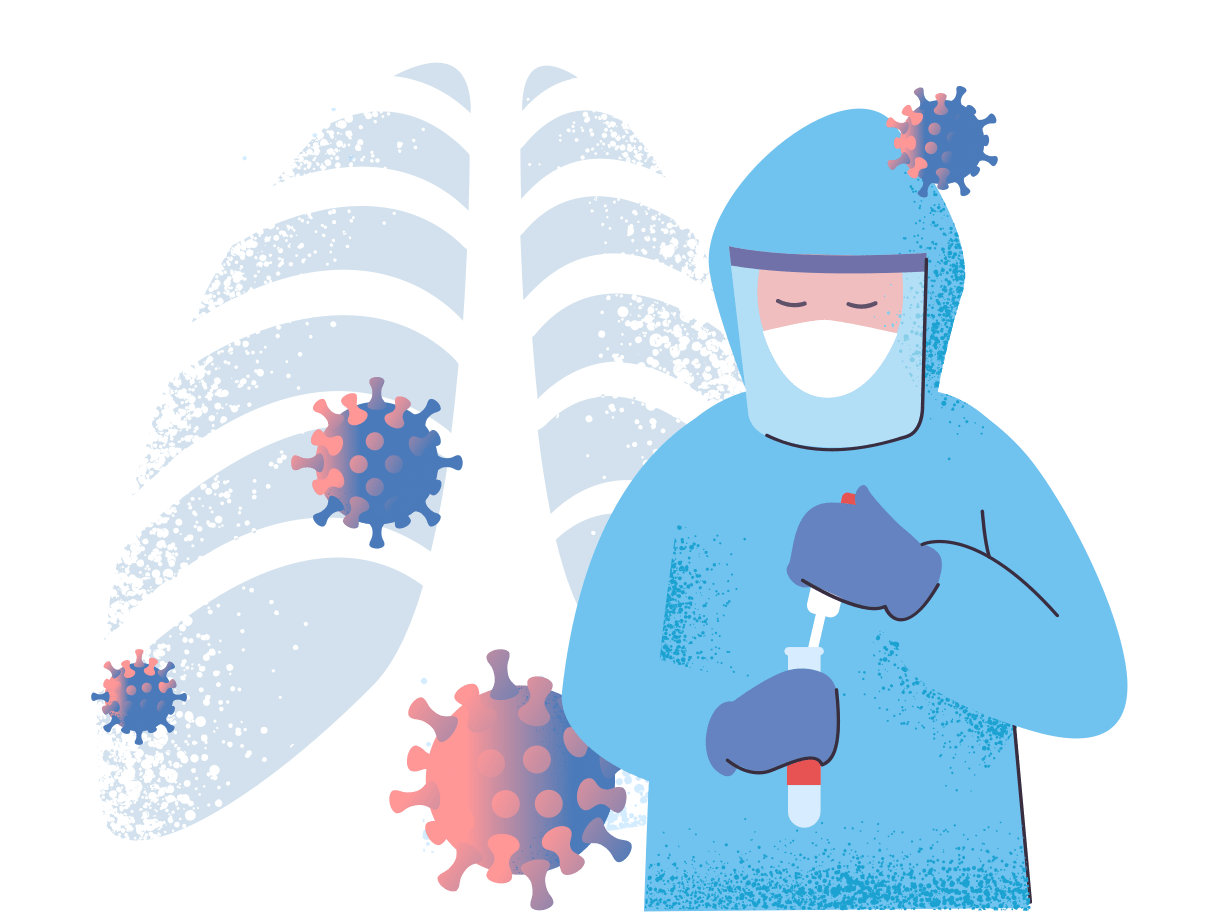
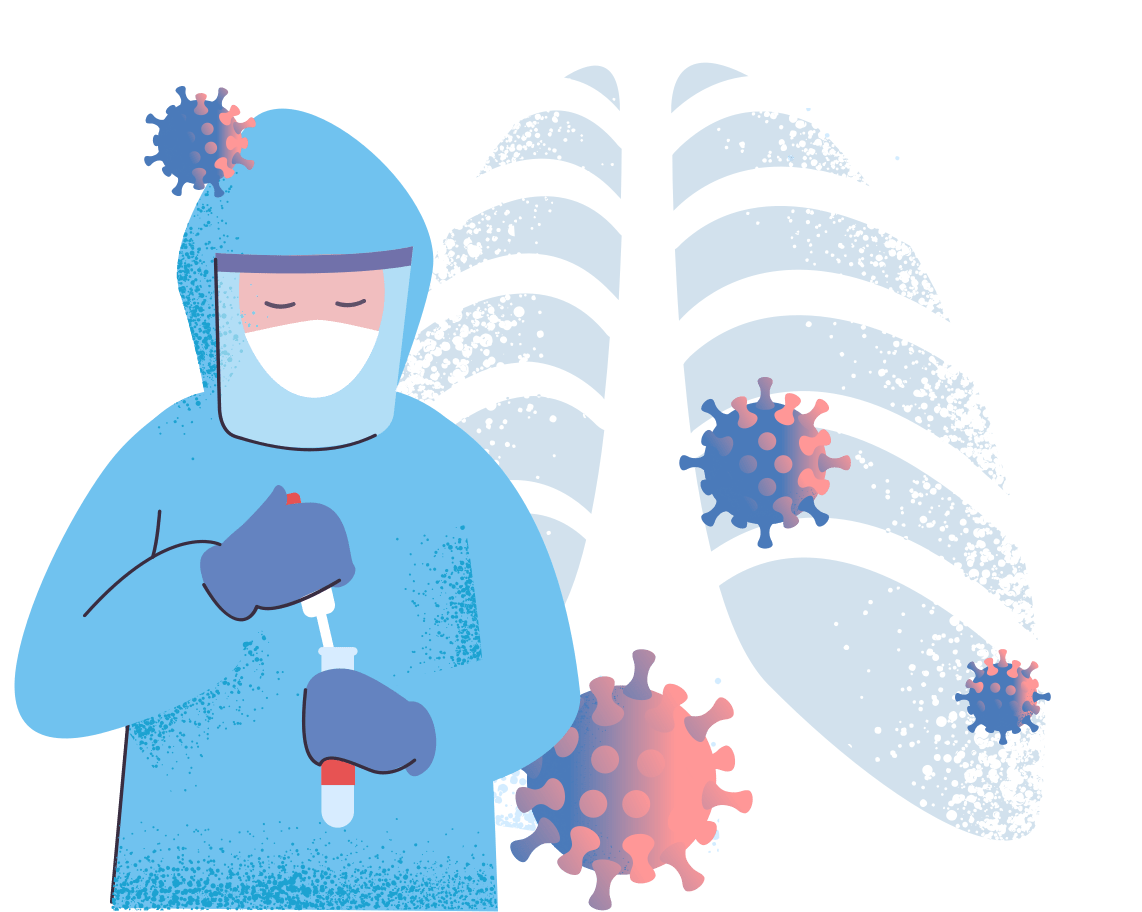
fifth push

diff --git a/lib/header.dart b/lib/header.dart
@@ -24,7 +24,7 @@ class _MyHeaderState extends State<MyHeader> {
     return ClipPath(
       clipper: MyClipper(),
       child: Container(
-        padding: EdgeInsets.only(left: 40, top: 50, right: 20),
+        padding: EdgeInsets.only(left: 10, top: 50, right: 20),
         height: 350,
         width: double.infinity,
         decoration: BoxDecoration(
@@ -37,27 +37,28 @@ class _MyHeaderState extends State<MyHeader> {
             ],
           ),
           image: DecorationImage(
-            alignment: Alignment.topCenter,
+            fit: BoxFit.contain,
+            alignment: Alignment.topLeft,
             image: AssetImage("assets/images/home.png"),
           ),
         ),
         child: Column(
           crossAxisAlignment: CrossAxisAlignment.end,
           children: <Widget>[
-            GestureDetector(
-              onTap: () {
-                Navigator.push(
-                  context,
-                  MaterialPageRoute(
-                    builder: (context) {
-                      return InfoScreen();
-                    },
-                  ),
-                );
-              },
-              child: SvgPicture.asset("assets/icons/menu.svg"),
-            ),
-            SizedBox(height: 20),
+//            GestureDetector(
+//              onTap: () {
+//                Navigator.push(
+//                  context,
+//                  MaterialPageRoute(
+//                    builder: (context) {
+//                      return InfoScreen();
+//                    },
+//                  ),
+//                );
+//              },
+//              child: SvgPicture.asset("assets/icons/menu.svg"),
+//            ),
+//            SizedBox(height: 20),
             Expanded(
               child: Stack(
                 children: <Widget>[
@@ -70,16 +71,16 @@ class _MyHeaderState extends State<MyHeader> {
 //                      alignment: Alignment.topCenter,
 //                    ),
 //                  ),
-//                  Positioned(
-//                    top: 100- widget.offset / 2,
-//                    left: 0,
-//                    child: Text(
-//                      "${widget.textTop} \n${widget.textBottom}",
-//                      style: kHeadingTextStyle.copyWith(
-//                        color: Colors.white,
-//                      ),
-//                    ),
-//                  ),
+                  Positioned(
+                    top: 10- widget.offset / 2,
+                    left: 220,
+                    child: Text(
+                      "${widget.textTop} \n${widget.textBottom}",
+                      style: kHeadingTextStyle.copyWith(
+                        color: Colors.white,
+                      ),
+                    ),
+                  ),
                   Container(), // I dont know why it can't work without container
                 ],
               ),
@@ -95,9 +96,9 @@ class MyClipper extends CustomClipper<Path> {
   @override
   Path getClip(Size size) {
     var path = Path();
-    path.lineTo(0, size.height - 80);
+    path.lineTo(0, size.height - 60);
     path.quadraticBezierTo(
-        size.width / 2, size.height, size.width, size.height - 80);
+        size.width / 2, size.height, size.width, size.height - 60);
     path.lineTo(size.width, 0);
     path.close();
     return path;

diff --git a/lib/constants.dart b/lib/constants.dart
@@ -14,8 +14,8 @@ final kActiveShadowColor = Color(0xFF4056C6).withOpacity(.15);
 
 // Text Style
 const kHeadingTextStyle = TextStyle(
-  fontSize: 22,
-  fontWeight: FontWeight.w600,
+  fontSize: 18,
+  fontWeight: FontWeight.w700,
 );
 
 const kSubTextStyle = TextStyle(fontSize: 16, color: kTextLightColor);
